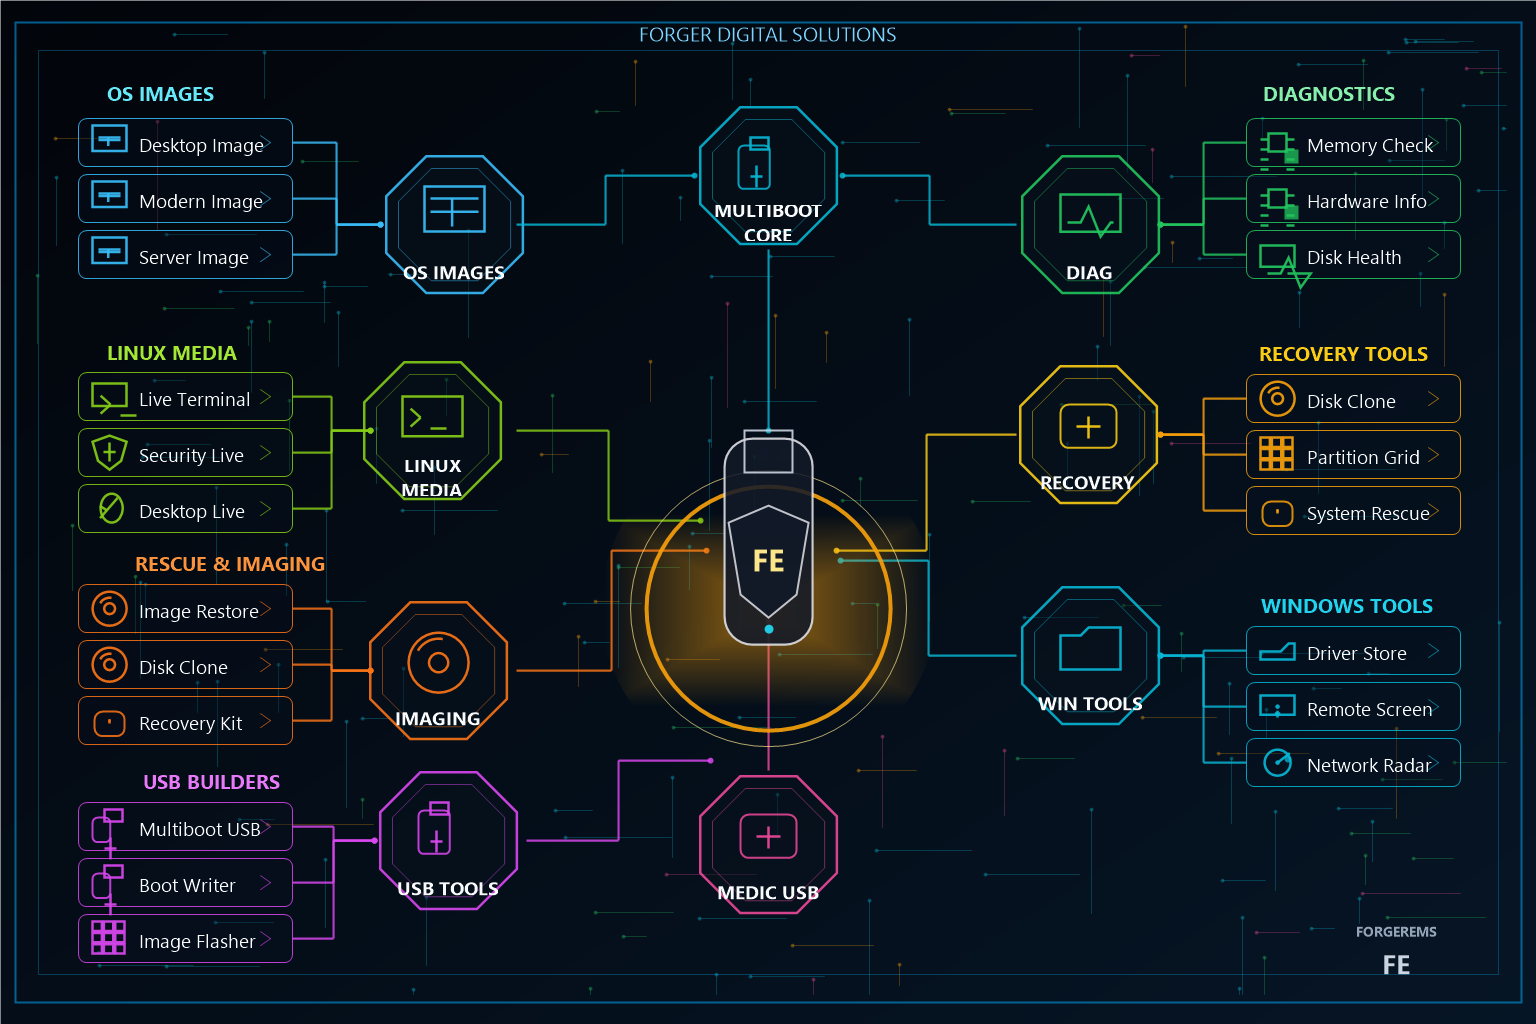
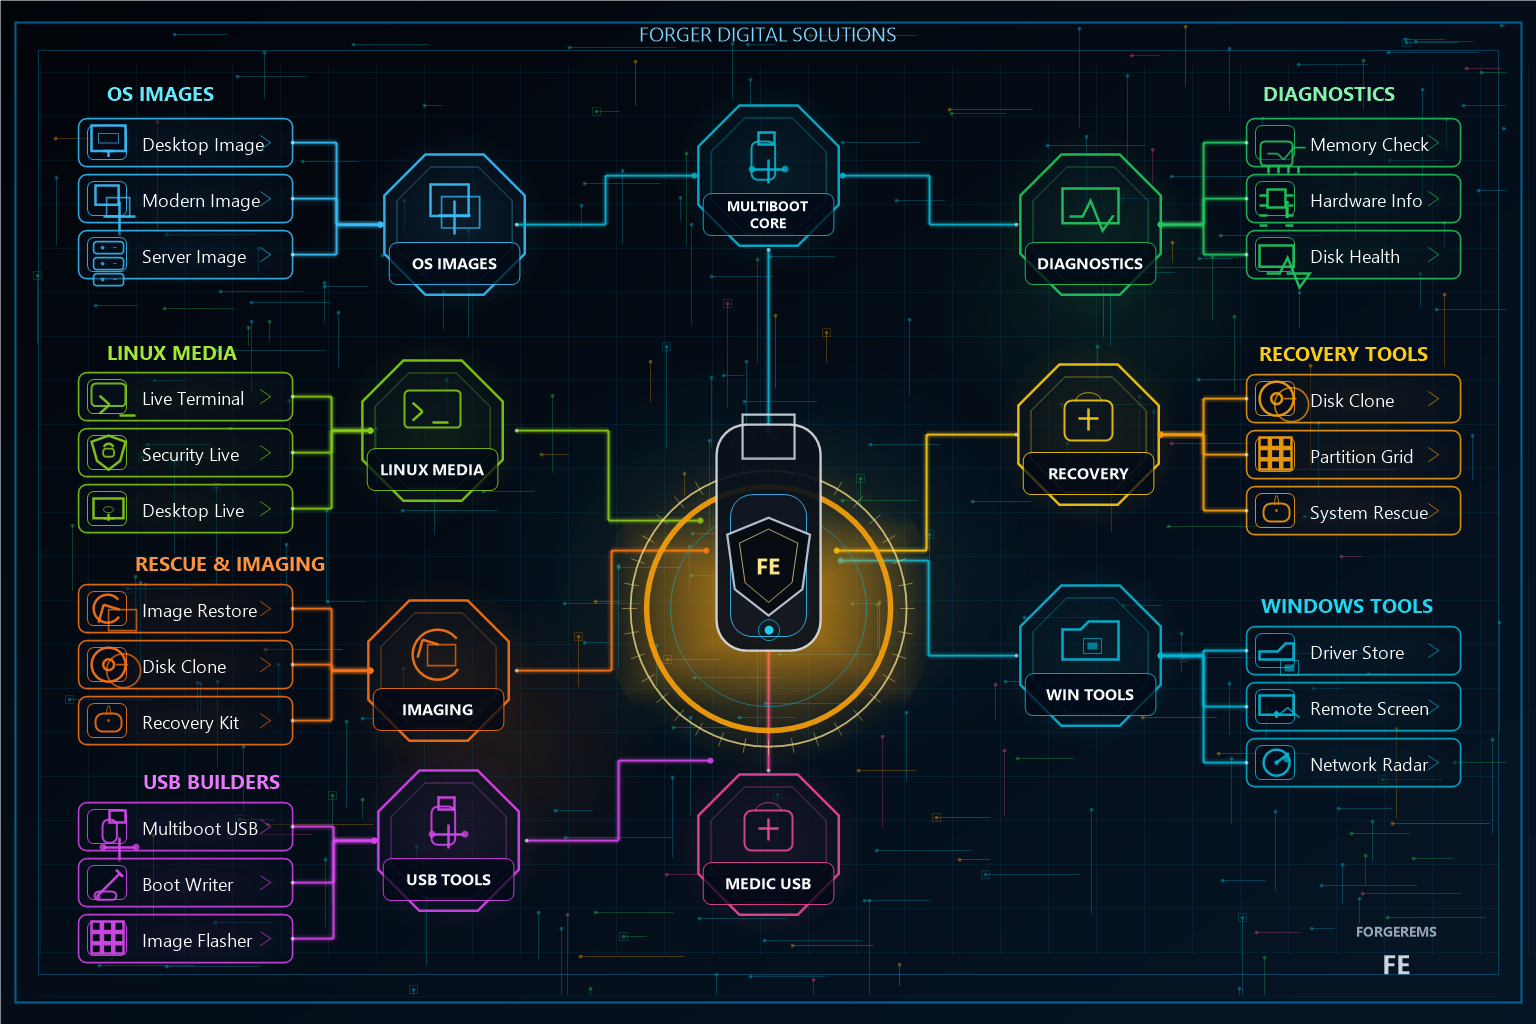
Polish trademark-safe command center background

diff --git a/tests/ForgerEMS.Wpf.Tests/ResourceTrademarkSafetyTests.cs b/tests/ForgerEMS.Wpf.Tests/ResourceTrademarkSafetyTests.cs
@@ -31,7 +31,19 @@ public sealed class ResourceTrademarkSafetyTests
         "driverstoreexplorer-logo",
         "nvidia-logo",
         "intel-logo",
-        "amd-logo"
+        "amd-logo",
+        "dell-logo",
+        "hp-logo",
+        "lenovo-logo",
+        "msi-logo",
+        "asus-logo",
+        "acer-logo",
+        "realtek-logo",
+        "gigabyte-logo",
+        "asrock-logo",
+        "fedora-logo",
+        "fwupd-logo",
+        "lvfs-logo"
     ];
 
     private static readonly string[] UnsafeBackgroundLabels =
@@ -155,6 +167,44 @@ public sealed class ResourceTrademarkSafetyTests
         Assert.DoesNotContain("Archived", projectText, StringComparison.OrdinalIgnoreCase);
         Assert.DoesNotContain("Unsafe", projectText, StringComparison.OrdinalIgnoreCase);
         Assert.DoesNotContain("LegacyBackground", projectText, StringComparison.OrdinalIgnoreCase);
+    }
+
+    [Fact]
+    public void BackgroundGenerator_UsesSafeLabelZonesAndGenericLabels()
+    {
+        var generatorText = File.ReadAllText(Path.Combine(RepoRoot, "tools", "Generate-SafeCommandCenterBackground.ps1"));
+
+        Assert.Contains("ModuleLabelSafeHeight", generatorText, StringComparison.Ordinal);
+        Assert.Contains("ModuleLabelSafeWidth", generatorText, StringComparison.Ordinal);
+        Assert.Contains("Draw-LabelPill", generatorText, StringComparison.Ordinal);
+        Assert.Contains("Draw-FeShield", generatorText, StringComparison.Ordinal);
+
+        foreach (var label in new[]
+                 {
+                     "Desktop Image",
+                     "Modern Image",
+                     "Server Image",
+                     "Live Terminal",
+                     "Security Live",
+                     "Desktop Live",
+                     "Image Restore",
+                     "Disk Clone",
+                     "Recovery Kit",
+                     "Multiboot USB",
+                     "Boot Writer",
+                     "Image Flasher",
+                     "Memory Check",
+                     "Hardware Info",
+                     "Disk Health",
+                     "Driver Store",
+                     "Remote Screen",
+                     "Network Radar",
+                     "MULTIBOOT`nCORE",
+                     "MEDIC USB"
+                 })
+        {
+            Assert.Contains(label, generatorText, StringComparison.Ordinal);
+        }
     }
 
     [Fact]
